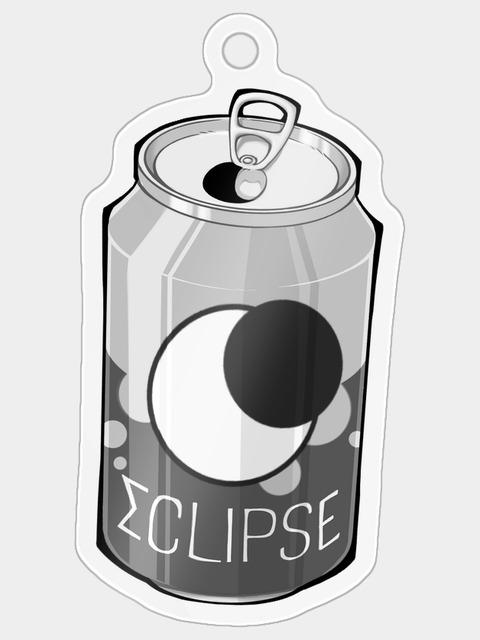
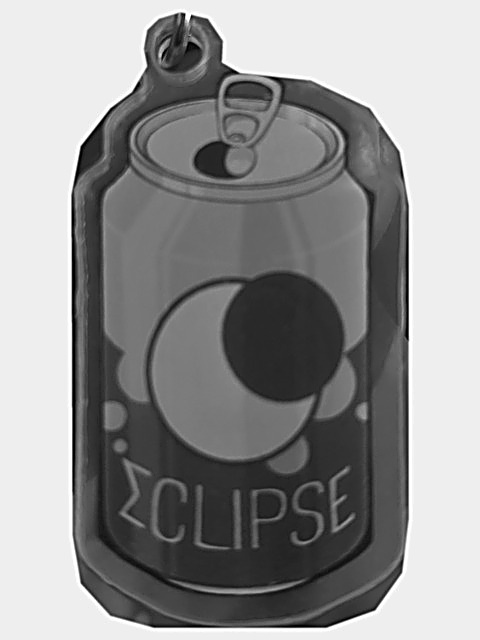
Keychain AR: independent charms, can target from a photo of the real charm, camera quality
- Each charm runs only from its own picture; the combined pair version is
  kept behind ?pair=1.
- kc-can is cut from a phone photo of the real acrylic can charm (the can is
  the same on both keychain designs); the flat art stays as kc-can-art.
- Camera: ideal 1920x1440 stream, continuous focus and a Zoom slider where
  the browser exposes them, up to 3x pixel density. ?hd=0 turns it off.

Claude-Session: https://claude.ai/code/session_011BHdrecvppcyzpvCV2HLhM

diff --git a/public/evade/keychain-ar/main.js b/public/evade/keychain-ar/main.js
@@ -3,9 +3,8 @@
 // (github.com/8thwall/8thwall, MIT), self-hosted in ./vendor/xr. Rendering is plain three.js.
 //
 // How the alignment works: the image target is the Bobo charm and the can charm together as they sit on
-// the keychain. The two charms can also be apart, so each has a target of its own, and two more recognise
-// the earlier keychain design (no silhouettes on that one). Each charm pops on its own when it is the only
-// one in view, and the two pop together when both are. image-targets/layout.json says where each picture
+// the keychain (only used with ?pair=1). The two charms are separate keychains on one ring, so each has a
+// target of its own and its own pop-out; one more target recognises the earlier design's Bobo charm. image-targets/layout.json says where each picture
 // sits relative to its charm (metres), which fixes each charm's frame. The silhouette quad that ships inside each GLB covers exactly its
 // charm frame, and the model starts at (charm frame) x (Silhouette node matrix)^-1, i.e. over its print.
 // Nothing is drawn unless the target is being tracked right now.
@@ -161,7 +160,7 @@ const assets = Promise.all([
   loader.loadAsync(BASE + 'ar/bobo-keychain.glb'),
   loader.loadAsync(BASE + 'ar/eclipse-can.glb'),
   fetch(HERE + 'image-targets/layout.json').then((r) => r.json()),
-  ...['kc-both', 'kc-bobo', 'kc-can', 'kc-old', 'kc-old-can'].map((n) => fetch(HERE + `image-targets/${n}.json`).then((r) => r.json())),
+  ...['kc-both', 'kc-bobo', 'kc-can', 'kc-can-art', 'kc-old'].map((n) => fetch(HERE + `image-targets/${n}.json`).then((r) => r.json())),
 ]);
 const xrReady = new Promise((res) => (window.XR8 ? res() : window.addEventListener('xrloaded', () => res(), { once: true })));
 let loaded = false;
@@ -344,38 +343,37 @@ function groundFrame(ch) {
   const r = new THREE.Vector3().crossVectors(up, f).normalize();
   ch.G.q.setFromRotationMatrix(_m.makeBasis(r, up, f)); ch.G.flat = Math.min(Math.abs(up.z) * 1.25, 1);
 }
-// Which image target places each charm this frame. A charm only counts as being there once the engine has
-// seen that charm's own picture: the pair picture also locks onto a single charm (half of it is enough), so
-// on its own it does not say which charms are in view. With both charms confirmed the pair picture places
-// them (it holds best when the can hangs over Bobo, and from further away); a charm on its own follows its
-// own picture. Too far for the single pictures but the pair picture holds: after a moment, take it as both.
-// The earlier design has two pictures of its own. The two designs' cans look alike: the cat keychain's can
-// picture never fires on the old can, but the old can's picture does fire on the new can, so the old can
-// only counts when the new can's picture stays quiet, and the pair picture is not believed for a few
-// seconds after an old-design charm was seen.
+// Which image target places each charm this frame. Each charm runs from its own picture only: kc-bobo (or
+// kc-old, the earlier design's Bobo) and kc-can (a photo of the real can charm, which is the same on both
+// keychain designs). So a charm can never show up for the other one.
+// With ?pair=1 the pair picture is loaded as well. It also locks onto a single charm (half of it is enough),
+// so a charm still only counts once its own picture has been seen; with both confirmed the pair picture
+// places them, as long as it agrees with each charm's own picture (charms held apart do not), and when only
+// the pair picture holds (too far for the single ones) it is taken as both after a moment. It is not
+// believed for a few seconds after the earlier design's Bobo was seen (its can matches the pair picture).
+const PAIR = params.get('pair') === '1';   // the combined version: the pair picture is loaded too and the two pop as one sequence. Off by default (Dapo, 2026-11-11): each charm runs only from its own picture, so one never shows up for the other.
 const conf = { bobo: false, can: false };
-let bothFor = 0, oldCanFor = 0, oldCanSeen = -1e9, noneFor = 0, pairMaybe = false, pairOff = 0;
+let bothFor = 0, noneFor = 0, pairMaybe = false, pairOff = 0;
 const _v2 = new THREE.Vector3();
 function updateFrames(dt) {
   const now = performance.now();
   for (const t of Object.values(TS)) { if (t.tracked && now - t.at > 500) t.tracked = false; if (t.tracked) { follow(t); t.seen = now; } }
   const on = (n) => (TS[n] && TS[n].tracked ? TS[n] : null), recent = (n, ms) => !!TS[n] && now - TS[n].seen < ms;
-  oldCanFor = on('kc-old-can') && !recent('kc-can', 3000) ? oldCanFor + dt : 0;
-  const oldCan = oldCanFor > 1.2 || (oldCanFor > 0 && recent('kc-old', 5000)) ? on('kc-old-can') : null; if (oldCan) oldCanSeen = now;   // next to the old Bobo there is no doubt
-  const oldRecent = recent('kc-old', 5000) || now - oldCanSeen < 5000;
-  const both = oldRecent ? null : on('kc-both'); pairMaybe = !!both;
-  if (on('kc-bobo')) conf.bobo = true; if (on('kc-can')) conf.can = true;
+  const oldRecent = recent('kc-old', 5000);
+  const both = !PAIR || oldRecent ? null : on('kc-both'); pairMaybe = !!both;
+  const canT = on('kc-can') || on('kc-can-art');                             // the photo of the real can charm first, the flat art as a second opinion
+  if (on('kc-bobo')) conf.bobo = true; if (canT) conf.can = true;
   // one charm's own picture is in view and the other's has not been for a while: the other charm has left
-  if (conf.bobo && on('kc-can') && !recent('kc-bobo', 1500)) conf.bobo = false;
-  if (conf.can && on('kc-bobo') && !recent('kc-can', 1500)) conf.can = false;
+  if (conf.bobo && canT && !recent('kc-bobo', 1500)) conf.bobo = false;
+  if (conf.can && on('kc-bobo') && !recent('kc-can', 1500) && !recent('kc-can-art', 1500)) conf.can = false;
   bothFor = both ? bothFor + dt : 0;
-  if (bothFor > 1.5 && !conf.bobo && !conf.can && !on('kc-old-can')) conf.bobo = conf.can = true;
+  if (bothFor > 1.5 && !conf.bobo && !conf.can) conf.bobo = conf.can = true;
   noneFor = Object.values(TS).some((t) => t.tracked) ? 0 : noneFor + dt; if (noneFor > 1) conf.bobo = conf.can = false;
   // the pair picture only places the charms while it agrees with each charm's own picture: two charms held
   // apart (not hanging together) still match it, but then it would put one of them in the wrong place
   let agree = true;
   if (both) for (const [k, n] of [['bobo', 'kc-bobo'], ['can', 'kc-can']]) {
-    const t = on(n); if (!t) continue;
+    const t = on(n) || (k === 'can' ? canT : null); if (!t) continue;
     const a = _v.setFromMatrixPosition(_m.copy(both.g.matrix).multiply(both.local[k])), b = _v2.setFromMatrixPosition(_m.copy(t.g.matrix).multiply(t.local[k]));
     a.sub(camera.position); b.sub(camera.position);                          // compare where they appear, not how far away: the two pictures' depth estimates differ a little
     if (a.angleTo(b) * b.length() / t.s > 0.008) agree = false;
@@ -384,7 +382,7 @@ function updateFrames(dt) {
   const pair = conf.bobo && conf.can && pairOff === 0 ? both : null;
   const pick = {
     bobo: on('kc-old') || (conf.bobo ? pair || on('kc-bobo') || (pairOff === 0 ? both : null) : null),
-    can: oldCan || (conf.can ? pair || on('kc-can') || (pairOff === 0 ? both : null) : null),
+    can: conf.can ? pair || canT || (pairOff === 0 ? both : null) : null,
   };
   present = false;
   for (const ch of [B, C]) {
@@ -580,7 +578,8 @@ function tick(dt) {
   for (const ch of [B, C]) ch.steady = driver[ch.key] ? ch.steady + dt : 0;
   if (!params.has('nopop')) {
     const ripe = (ch) => ch.st === 'idle' && ch.steady > 0.6, coming = (ch) => ch.st === 'idle' && ch.steady > 0;
-    if (ripe(B) && ripe(C)) startPair();
+    if (!PAIR) { for (const ch of [C, B]) if (ripe(ch)) startSolo(ch); }
+    else if (ripe(B) && ripe(C)) startPair();
     else if (ripe(C) && !coming(B) && (!pairMaybe || C.steady > 1.4)) startSolo(C);   // with the pair picture in play, give the other charm a moment to show up
     else if (ripe(B) && !coming(C) && (!pairMaybe || B.steady > 1.4)) startSolo(B);
   }
@@ -623,7 +622,7 @@ function tick(dt) {
 // ---------------------------------------------------------------- 8th Wall pipeline
 const canvas = $('cam');
 function sizeCanvas() {
-  const dpr = Math.min(devicePixelRatio || 1, 2);
+  const dpr = Math.min(devicePixelRatio || 1, HD ? 3 : 2);
   const w = Math.round(innerWidth * dpr), h = Math.round(innerHeight * dpr);
   if (canvas.width !== w || canvas.height !== h) { canvas.width = w; canvas.height = h; }
 }
@@ -632,9 +631,9 @@ const appModule = (data) => ({
   name: 'evade-keychain',
   onStart: () => { buildScene(XR8.Threejs.xrScene(), data); state = 'looking'; $('hud').hidden = false; ui.guide(true); },   // the scene exists from here on
   onUpdate: () => { const now = performance.now(); const dt = Math.min((now - (last || now)) / 1000, 0.05); last = now; if (scene) tick(dt); },
-  onCameraStatusChange: ({ status }) => {
+  onCameraStatusChange: ({ status, video }) => {
     if (status === 'requesting') ui.hint('Allow camera access to begin');
-    if (status === 'hasVideo') { $('how').hidden = true; $('splash').classList.add('gone'); setTimeout(() => { $('splash').hidden = true; }, 600); }
+    if (status === 'hasVideo') { tuneCamera(video); $('how').hidden = true; $('splash').classList.add('gone'); setTimeout(() => { $('splash').hidden = true; }, 600); }
     if (status === 'failed') ui.error('Camera not available', 'Allow camera access for this site in your browser settings, then reload. On iPhone use Safari; on Android use Chrome.');
   },
   onException: (e) => { console.error('XR', e); ui.error('Something went wrong', String((e && e.message) || e)); },
@@ -647,13 +646,48 @@ const appModule = (data) => ({
   ],
 });
 
+// ---------------------------------------------------------------- camera quality
+// The engine picks its own camera constraints (high resolution on Android Chrome, a modest minimum elsewhere)
+// and tracks on a small greyscale copy of the frame. What we can add from outside:
+//  - ask for the sharpest 4:3 stream the phone offers (ideal 1920x1440), falling back to the engine's request;
+//  - keep the lens refocusing (a keychain is a close-up subject), where the browser exposes focus;
+//  - draw at the screen's full pixel density;
+//  - optical/digital zoom where the browser exposes it (Tune > Zoom): more pixels on a far-away charm.
+// `?hd=0` turns all of it off, to compare.
+const HD = params.get('hd') !== '0';
+if (HD && navigator.mediaDevices && navigator.mediaDevices.getUserMedia) {
+  const md = navigator.mediaDevices, orig = md.getUserMedia.bind(md);
+  md.getUserMedia = (c) => {
+    const v = c && c.video;
+    if (!v || v === true || (v.width && v.width.exact) || (v.height && v.height.exact)) return orig(c);
+    const sharp = { ...c, video: { ...v, width: { ...(v.width || {}), ideal: 1920 }, height: { ...(v.height || {}), ideal: 1440 } } };
+    return orig(sharp).catch(() => orig(c));
+  };
+}
+let camTrack = null;
+function tuneCamera(video) {
+  try {
+    camTrack = video && video.srcObject && video.srcObject.getVideoTracks()[0]; if (!camTrack) return;
+    const st = camTrack.getSettings ? camTrack.getSettings() : {}, caps = camTrack.getCapabilities ? camTrack.getCapabilities() : {};
+    $('t-cam').textContent = `Camera ${st.width || video.videoWidth}×${st.height || video.videoHeight}${st.frameRate ? ' at ' + Math.round(st.frameRate) + ' fps' : ''}`;
+    if (!HD) return;
+    if (caps.focusMode && caps.focusMode.includes('continuous')) camTrack.applyConstraints({ advanced: [{ focusMode: 'continuous' }] }).catch(() => {});
+    if (caps.zoom && caps.zoom.max > caps.zoom.min) {
+      const z = $('t-zoom'); z.min = caps.zoom.min; z.max = Math.min(caps.zoom.max, 4); z.step = caps.zoom.step || 0.1; z.value = st.zoom || caps.zoom.min;
+      for (const el of document.querySelectorAll('.zoom')) el.hidden = false;
+      const show = () => { $('t-zoom-v').textContent = (+z.value).toFixed(1) + '×'; }; show();
+      z.oninput = () => { show(); camTrack.applyConstraints({ advanced: [{ zoom: +z.value }] }).catch(() => {}); };
+    }
+  } catch (e) { /* the camera still works without these */ }
+}
+
 async function start() {
   if (!loaded) return;
   $('b-go').disabled = true; $('b-go').textContent = 'Starting…';
   sound.init(); await askMotion();
   const data = await assets;
   sizeCanvas(); addEventListener('resize', sizeCanvas); addEventListener('orientationchange', () => setTimeout(sizeCanvas, 300));
-  XR8.XrController.configure({ disableWorldTracking: true, imageTargetData: data.slice(3).filter((t) => !params.get('only') || t.name === params.get('only')) });
+  XR8.XrController.configure({ disableWorldTracking: true, imageTargetData: data.slice(3).filter((t) => (PAIR || t.name !== 'kc-both') && (!params.get('only') || t.name === params.get('only'))) });
   XR8.addCameraPipelineModules([
     XR8.GlTextureRenderer.pipelineModule(),
     XR8.Threejs.pipelineModule(),

diff --git a/public/evade/keychain-ar/index.html b/public/evade/keychain-ar/index.html
@@ -127,8 +127,8 @@
     <p>The two charms can be together or apart. Each one comes to life on its own.</p>
     <ul class="finds">
       <li><img src="./image-targets/kc-bobo_thumbnail.jpg" alt="The Bobo charm"><b>Bobo</b>Bobo jumps out</li>
-      <li><img src="./image-targets/kc-can_thumbnail.jpg" alt="The Eclipse can charm"><b>The Eclipse can</b>The can pops out</li>
-      <li><img src="./image-targets/kc-both_thumbnail.jpg" alt="The Bobo charm and the Eclipse can charm side by side"><b>Both together</b>They jump out together</li>
+      <li><img src="./image-targets/how-can.jpg" alt="The Eclipse can charm"><b>The Eclipse can</b>The can pops out</li>
+      <li><img src="./image-targets/kc-both_thumbnail.jpg" alt="The Bobo charm and the Eclipse can charm side by side"><b>Both together</b>Each pops out of its own charm</li>
     </ul>
     <p>Hold the charm flat, in good light, and fill about half the screen with it.</p>
     <button id="b-go" class="primary">Open camera</button>
@@ -155,6 +155,8 @@
       <input id="t-tilt" type="range" min="0" max="100" step="1" value="0">
       <label for="t-away">Distance <output id="t-away-v" for="t-away">0%</output></label>
       <input id="t-away" type="range" min="0" max="100" step="1" value="0">
+      <label class="zoom" for="t-zoom" hidden>Zoom <output id="t-zoom-v" for="t-zoom">1×</output></label>
+      <input class="zoom" id="t-zoom" type="range" min="1" max="4" step="0.1" value="1" hidden>
       <label for="t-portal">Portal <output id="t-portal-v" for="t-portal">3 s</output></label>
       <input id="t-portal" type="range" min="0.5" max="6" step="0.1" value="3">
       <label for="t-stagger">Can to Bobo <output id="t-stagger-v" for="t-stagger">0.55 s</output></label>
@@ -162,6 +164,7 @@
       <label for="t-fly">Jump <output id="t-fly-v" for="t-fly">1 s</output></label>
       <input id="t-fly" type="range" min="0.4" max="2.5" step="0.05" value="1">
       <p>Tilt 0% lies parallel to the print, 100% stands upright. Distance 0% is over its own print, 100% beside the charm (Spacing applies there). Let go of a timing slider and the pop replays with it. <span><button id="t-replay" type="button">Replay</button> <button id="t-reset" type="button">Reset</button></span></p>
+      <p id="t-cam"></p>
     </form>
     <nav aria-label="Bobo controls">
       <button id="b-wave" disabled>Wave</button>

diff --git a/scripts/build-keychain-ar/build_targets.py b/scripts/build-keychain-ar/build_targets.py
@@ -1,5 +1,5 @@
 # Image targets for the 8th Wall (open-source engine) keychain experience. kc-both: the Bobo cat charm and
-# the Eclipse can charm together as they sit on the keychain (no ring or chain). kc-bobo / kc-can: each charm on its own. kc-old / kc-old-can: the earlier design's two charms. Same output format as
+# the Eclipse can charm together as they sit on the keychain (no ring or chain). kc-bobo / kc-can: each charm on its own. kc-can is cut from a phone photo of the real charm. kc-old: the earlier design's Bobo charm. Same output format as
 # @8thwall/image-target-cli (a json + a 480x640 greyscale "luminance" picture the engine extracts
 # features from). layout.json says where that picture sits in keychain space (metres), so the AR page
 # can place each charm frame (and its silhouette) exactly on its print.
@@ -61,6 +61,12 @@ for key, tname, (fname, _, _, _) in (('bobo', 'kc-bobo', CHARMS[0]), ('can', 'kc
     tw, th = (cw, round(cw / 0.75)) if cw / chh > 0.75 else (round(chh * 0.75), chh)
     tw, th = round(tw * 1.04), round(th * 1.04)
     canvas = Image.new('RGBA', (tw, th), (236, 238, 240, 255)); canvas.alpha_composite(im, ((tw - cw) // 2, (th - chh) // 2))
+    if key == 'can':
+        # The can is tracked from a phone photo of the real acrylic charm instead (below): it holds better on
+        # the real thing than the flat art. The art picture stays as the thumbnail on the instructions screen.
+        canvas.convert('RGB').resize((263, 350), Image.LANCZOS).save(OUT + 'how-can.jpg', quality=85)
+        ART_CAN = (tw / PPM, th / PPM, cw / PPM, chh / PPM)   # picture and acrylic piece, metres
+        tname = 'kc-can-art'                                  # the art stays as a second picture of the same charm
     write_target(tname, canvas.convert('RGB'), dict(widthM=tw / PPM, heightM=th / PPM, silhouettes=True, charms={key: dict(x=0, y=0, rz=0)}))
 
 # ---- camera guide: the two silhouettes together, in the same frame as kc-both
@@ -79,10 +85,20 @@ gb.crop(box).resize((503, 670), Image.LANCZOS).save(OUT + 'guide-both.png')
 from PIL import ImageFilter
 HERE_SRC = os.path.dirname(os.path.abspath(__file__)) + '/src/'
 OPPM = 28800
-for key, tname, fname in (('bobo', 'kc-old', 'old-bobo.png'), ('can', 'kc-old-can', 'old-can.png')):
+for key, tname, fname in (('bobo', 'kc-old', 'old-bobo.png'),):
     im = Image.open(HERE_SRC + fname).convert('RGB')
     write_target(tname, im, dict(widthM=im.width / OPPM, heightM=im.height / OPPM, silhouettes=False, charms={key: dict(x=0, y=0, rz=0)}))
     # the photo is a little soft: sharpen the tracked picture so the engine has corners to hold on to
     Image.open(OUT + f'{tname}_luminance.jpg').filter(ImageFilter.UnsharpMask(radius=2, percent=160, threshold=2)).save(OUT + f'{tname}_luminance.jpg', quality=95)
+
+# ---- the Eclipse can charm, for both keychain designs (the can is the same on both): cut from Dapo's phone
+# photo of the real charm, clear acrylic edge and tab included (src/can-photo.png: the acrylic piece centred
+# in a 3:4 picture with a 4% margin, the same framing as the art picture). So it maps onto the art's charm
+# frame directly: the acrylic piece is as tall in metres as the art's.
+im = Image.open(HERE_SRC + 'can-photo.png').convert('RGB')
+im = im.resize((1200, 1600), Image.LANCZOS)
+hM = ART_CAN[3] * 1.04
+write_target('kc-can', im, dict(widthM=hM * 0.75, heightM=hM, silhouettes=True, charms={'can': dict(x=0, y=0, rz=0)}))
+Image.open(OUT + 'kc-can_luminance.jpg').filter(ImageFilter.UnsharpMask(radius=2, percent=140, threshold=2)).save(OUT + 'kc-can_luminance.jpg', quality=95)
 json.dump(dict(targets=LAYOUT), open(OUT + 'layout.json', 'w'), indent=2)
 print(open(OUT + 'layout.json').read())

diff --git a/public/evade/keychain-ar/README.md b/public/evade/keychain-ar/README.md
@@ -14,13 +14,13 @@ binary under a different licence and is not needed here.
 - `index.html` — splash, in-camera HUD, photo sheet, error sheet.
 - `main.js` — everything else (see the comment at the top for how the alignment works).
 - `image-targets/` — written by `scripts/build-keychain-ar/build_targets.py`:
-  - `kc-both`: the Bobo cat charm and the can charm together as they hang on the keychain (no ring or
-    chain). `*_luminance.jpg` is what the engine tracks, `*.jpg` is the same in colour.
-  - `kc-bobo`, `kc-can`: each charm of the cat keychain on its own (the two charms are separate
-    keychains on one ring, so people may have only one, or hold them apart).
-  - `kc-old`, `kc-old-can`: the earlier design's two charms, cut from a phone photo of the real
-    keychain (`scripts/build-keychain-ar/src/old-*.png`). No silhouettes on these.
-  - `guide-both.png`: the two silhouettes together, for the camera guide.
+  - `kc-bobo`: the cat keychain's Bobo charm (flat art). `*_luminance.jpg` is what the engine tracks.
+  - `kc-can`: the Eclipse can charm, cut from a phone photo of the real acrylic charm (clear edge and
+    tab included, `scripts/build-keychain-ar/src/can-photo.png`). The can is the same on both keychain
+    designs. `kc-can-art` is the flat art of the same charm, as a second picture of it.
+  - `kc-old`: the earlier design's Bobo charm, cut from a phone photo.
+  - `kc-both`: the two cat-keychain charms hanging together. Only loaded with `?pair=1`.
+  - `guide-both.png`, `how-can.jpg`: pictures for the camera guide and the instructions screen.
   - `layout.json`: per target, the picture's size and where the two charm frames sit in it (metres).
 - `splash.jpg` — backdrop generated with Higgsfield from a text prompt only (no EVADE artwork was
   given to it); the real Bobo and can renders are composited on top.
@@ -45,20 +45,20 @@ the charm), so it stays in frame with the charm. Tune sliders: Hover (height abo
 standing spot beside the charm, where Spacing applies).
 
 ## Which charm pops (`updateFrames` in `main.js`)
-Each charm has its own state (idle, charging, flying, out), so one charm arriving or leaving never
-restarts the other, and a charm that leaves the view comes back as it was.
+Each charm has its own state (idle, charging, flying, out) and runs only from its own picture, so one
+charm never shows up for the other, one arriving or leaving never restarts the other, and a charm that
+leaves the view comes back as it was. Replay starts both over.
 
-- A charm only counts as present once its own picture (`kc-bobo` / `kc-can`) has been seen. The pair
-  picture locks onto a single charm too (half of it is enough), so alone it cannot say who is there.
-- With both confirmed, `kc-both` places both charms, as long as it agrees with each charm's own picture
-  to within 8 mm. Charms held apart disagree, and then each follows its own picture.
-- Too far for the single pictures but `kc-both` holds for 1.5 s: taken as both charms.
-- One charm's picture in view and the other's unseen for 1.5 s: the other charm has left.
-- Both in view and steady: they pop together (can first). One in view: it pops alone; if the pair
-  picture is tracked it waits up to 1.4 s for the other.
-- The two designs' cans look alike. `kc-can` does not fire on the old can, but `kc-old-can` fires on the
-  new one, so the old can only counts after 1.2 s without `kc-can` (at once next to the old Bobo), and
-  `kc-both` is ignored for 5 s after an old-design charm.
+`?pair=1` is the combined version: `kc-both` is loaded too, and when both charms are steady they pop as
+one sequence (can first, Bobo after the Can to Bobo time). The pair picture also locks onto a single
+charm, so a charm still has to be confirmed by its own picture; the pair picture then places both, as
+long as it agrees with the single pictures to within 8 mm on screen, or after 1.5 s when only it holds.
+
+## Camera (`tuneCamera` in `main.js`)
+The engine chooses its own camera constraints and tracks on a small greyscale copy of each frame. Added
+from outside: an ideal 1920x1440 stream (falls back to the engine's own request), continuous focus and a
+Zoom slider where the browser exposes them (Android Chrome), and drawing at up to 3x pixel density.
+`?hd=0` turns all of that off. The Tune panel shows the stream the phone actually gave.
 
 ## URL switches
 - `?only=kc-both` (or any other target name) loads just that image target.

diff --git a/scripts/build-keychain-ar/README.md b/scripts/build-keychain-ar/README.md
@@ -33,5 +33,5 @@ The film of the lab was made with `/labs/keychain-pop/?capture`, which stops the
 script step frames with `__kc.step(dt)`.
 
 ## Image targets (8th Wall AR page)
-`build_targets.py` writes the image targets for `/evade/keychain-ar/` (the cat keychain's two charms together and each on its own, and the earlier design's two charms from a phone photo of the real keychain, `src/old-*.png`), in the
+`build_targets.py` writes the image targets for `/evade/keychain-ar/` (the cat keychain's charms, the can from a phone photo of the real charm `src/can-photo.png`, and the earlier design's Bobo from a phone photo `src/old-bobo.png`), in the
 same format as `@8thwall/image-target-cli`. See `public/evade/keychain-ar/README.md`.
